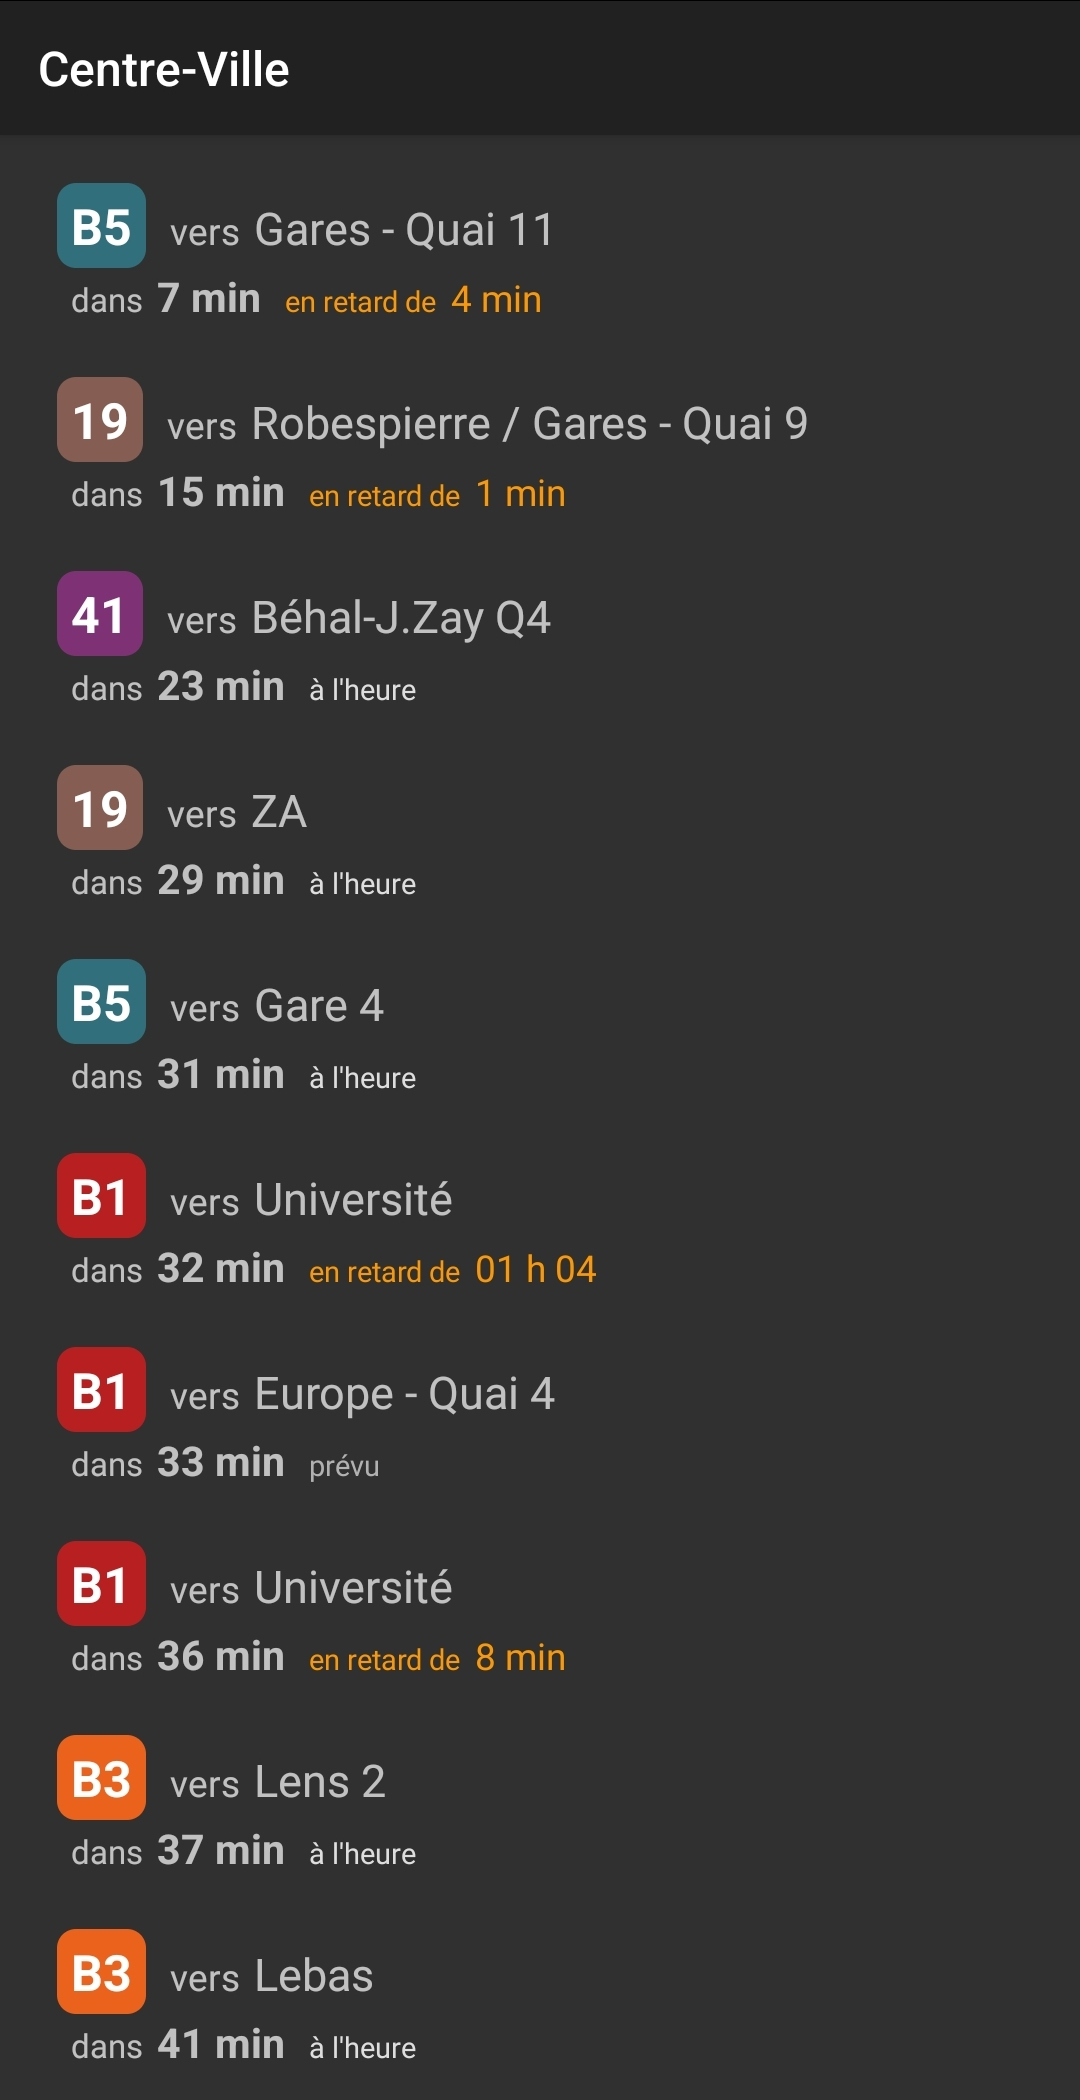
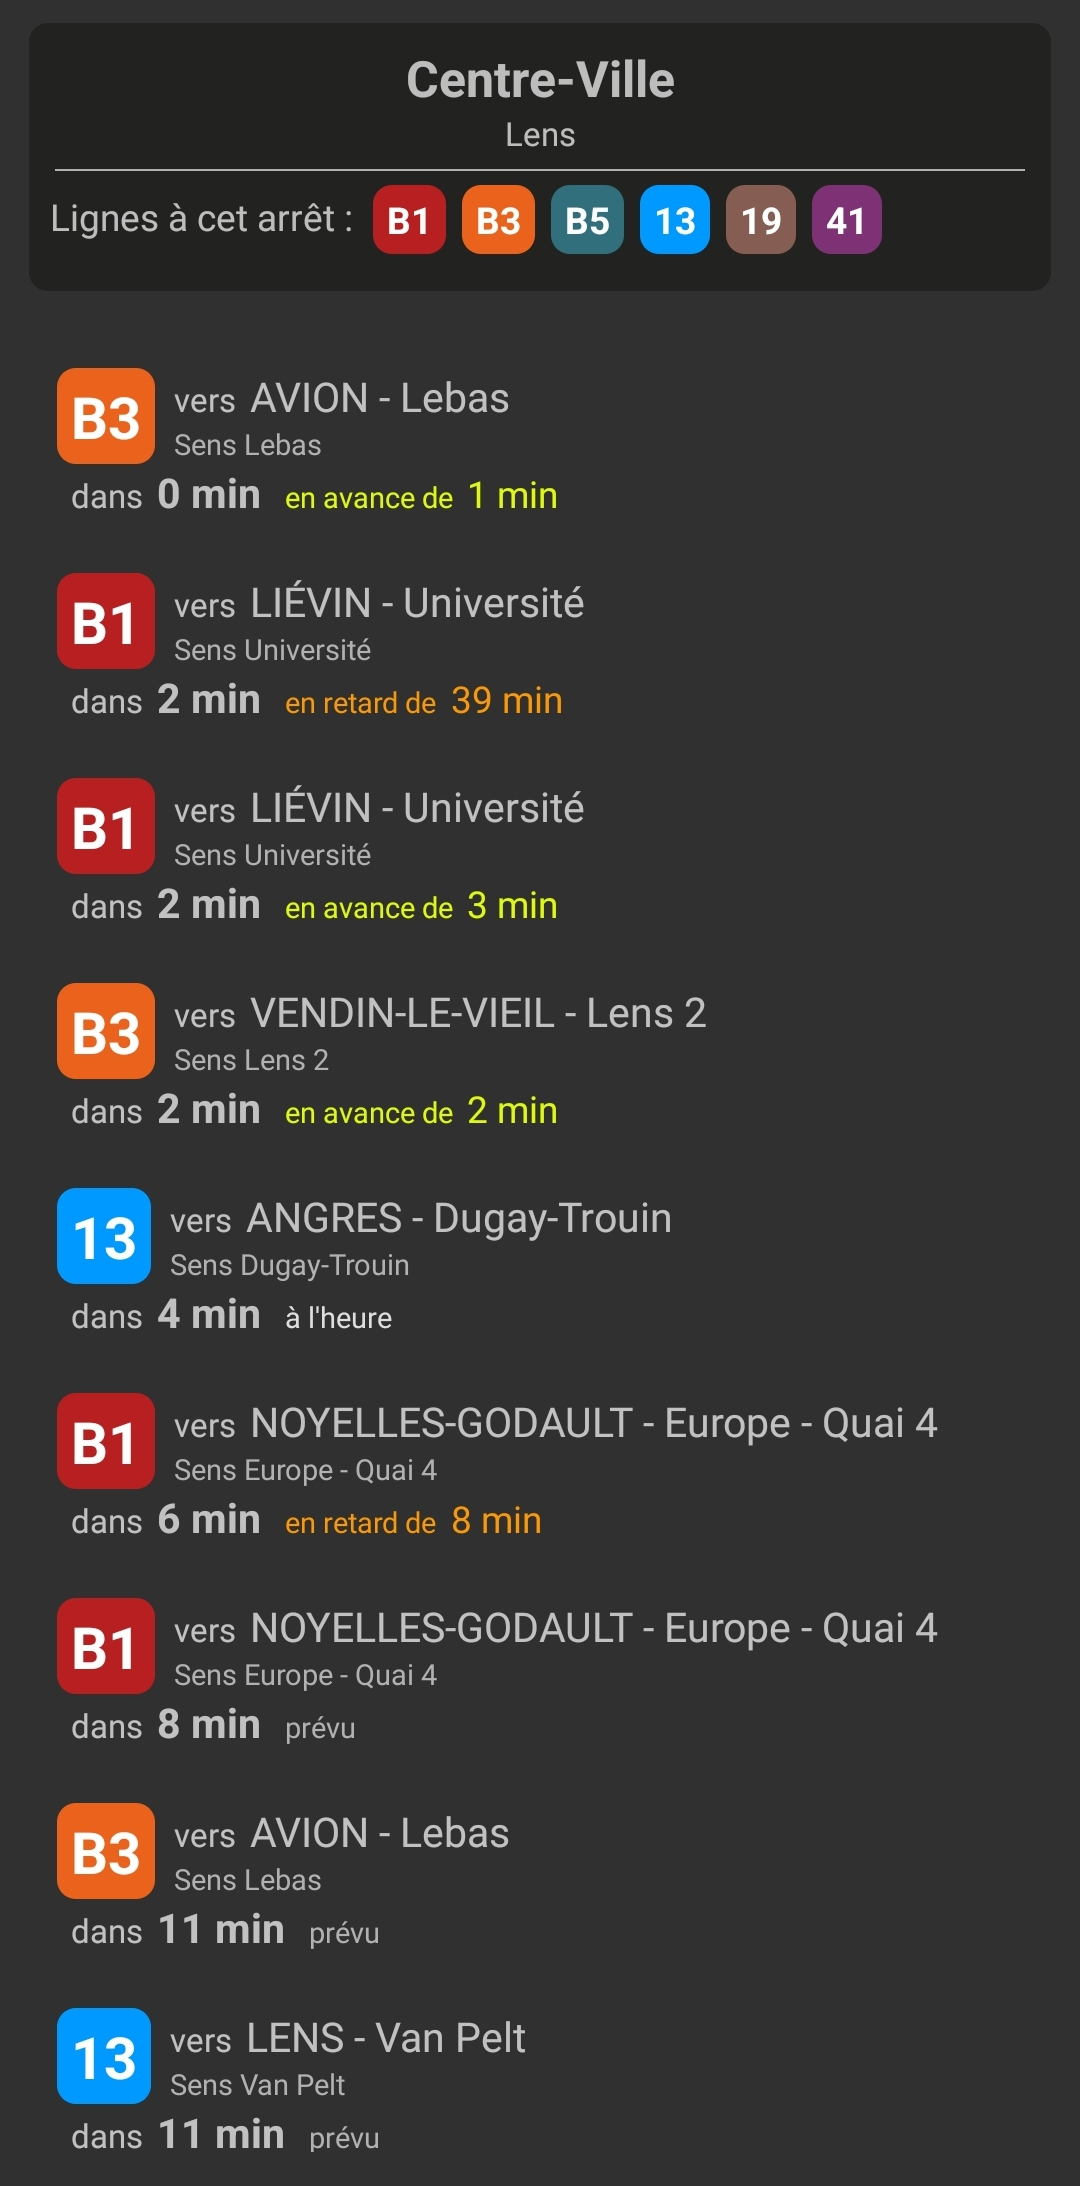
cleanup

diff --git a/README.md b/README.md
@@ -15,6 +15,7 @@ A simple Java Android application to view next departures for stops of the [Tada
 - Search bus stop by name and/or city
 - Next departures in real-time (if data available)
 - Auto updating list of departures
+- Bus stop information
 
 ## Download
 
